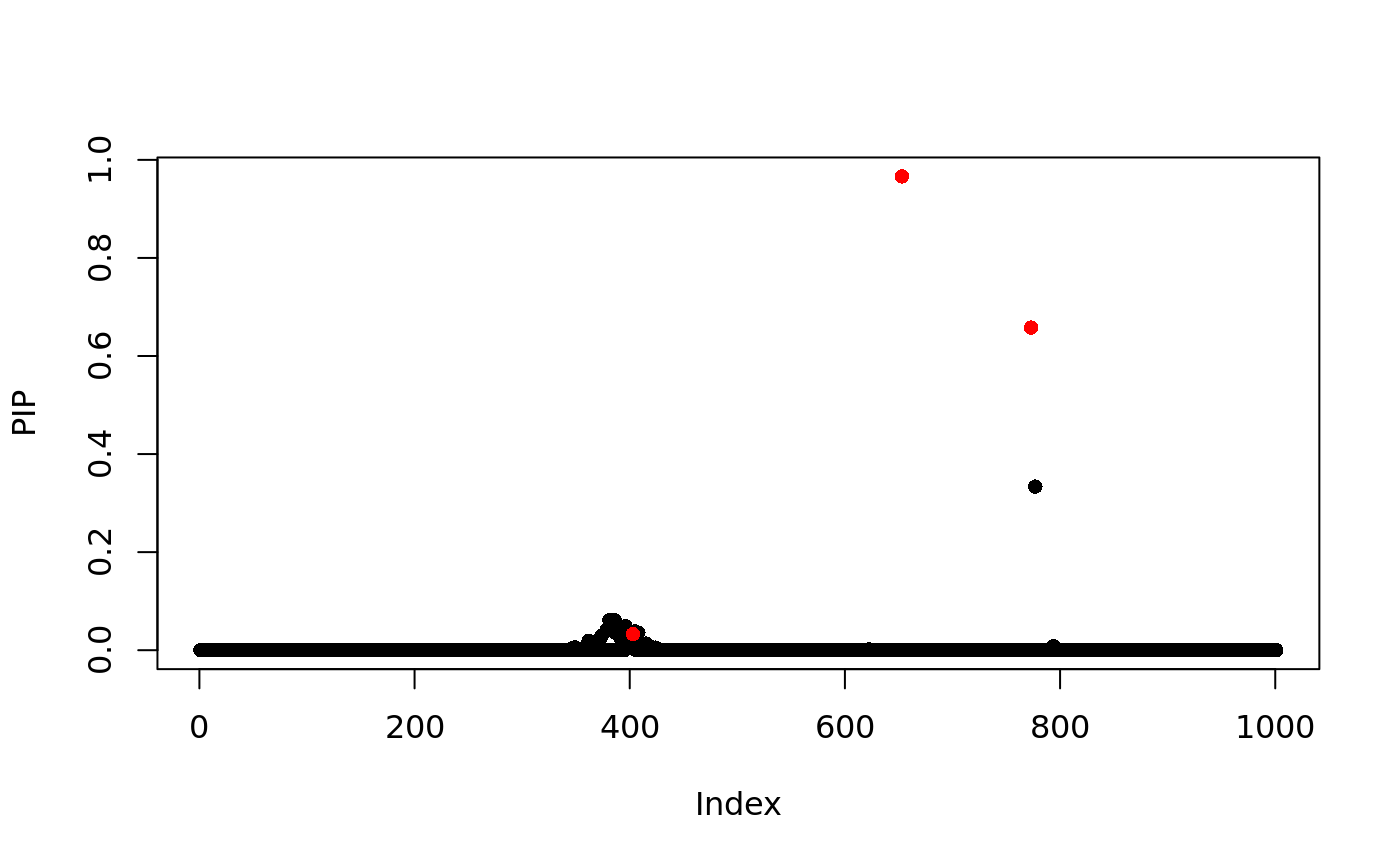
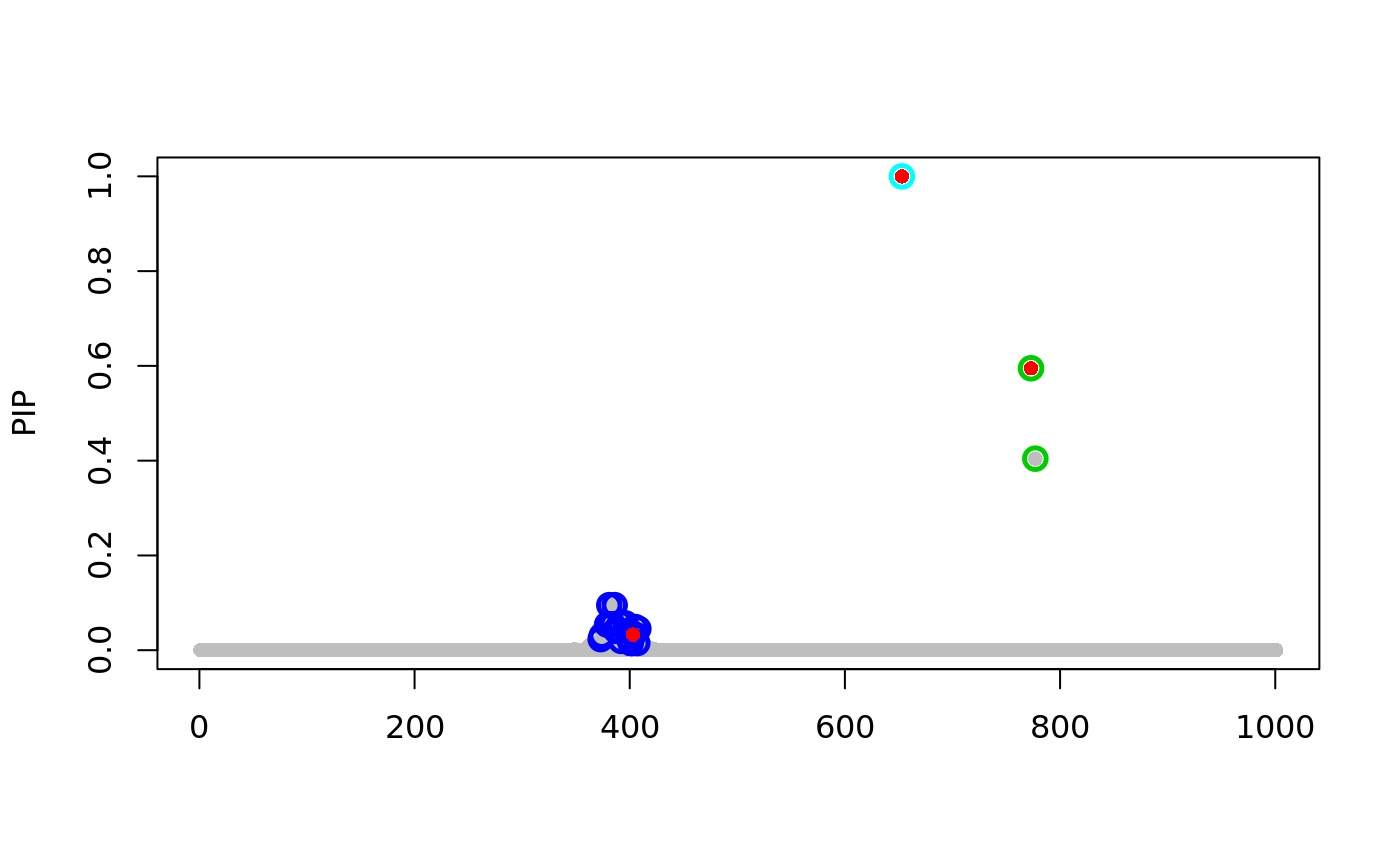
Update vignette for susie_pplot

diff --git a/docs/articles/finemapping.html b/docs/articles/finemapping.html
@@ -81,25 +81,27 @@
     
 <p>This vignettes demonstrates <code>susieR</code> in the context of genetic fine-mapping. We use simulated data of expression level of a gene (<span class="math inline">\(y\)</span>) in <span class="math inline">\(N \approx 600\)</span> individuals. We want to identify with the genotype matrix <span class="math inline">\(X_{N\times P}\)</span> (<span class="math inline">\(P=1000\)</span>) the genetic variables that causes changes in expression level.</p>
 <p>The simulated data-set is <a href="https://github.com/stephenslab/susieR/blob/master/inst/data/N3finemapping.rds">available here</a>, as part of the <code>susieR</code> package. It is simulated to have exactly 3 non-zero effects.</p>
+<div class="sourceCode" id="cb1"><pre class="sourceCode r"><code class="sourceCode r"><a class="sourceLine" id="cb1-1" data-line-number="1"><span class="kw">library</span>(susieR)</a>
+<a class="sourceLine" id="cb1-2" data-line-number="2"><span class="kw">set.seed</span>(<span class="dv">1</span>)</a></code></pre></div>
 <div id="the-data-set" class="section level2">
 <h2 class="hasAnchor">
 <a href="#the-data-set" class="anchor"></a>The data-set</h2>
-<div class="sourceCode" id="cb1"><pre class="sourceCode r"><code class="sourceCode r"><a class="sourceLine" id="cb1-1" data-line-number="1">dat =<span class="st"> </span><span class="kw">readRDS</span>(<span class="kw">system.file</span>(<span class="st">"data"</span>, <span class="st">"N3finemapping.rds"</span>, <span class="dt">package =</span> <span class="st">"susieR"</span>))</a>
-<a class="sourceLine" id="cb1-2" data-line-number="2"><span class="kw">names</span>(dat)</a></code></pre></div>
+<div class="sourceCode" id="cb2"><pre class="sourceCode r"><code class="sourceCode r"><a class="sourceLine" id="cb2-1" data-line-number="1">dat =<span class="st"> </span><span class="kw">readRDS</span>(<span class="kw">system.file</span>(<span class="st">"data"</span>, <span class="st">"N3finemapping.rds"</span>, <span class="dt">package =</span> <span class="st">"susieR"</span>))</a>
+<a class="sourceLine" id="cb2-2" data-line-number="2"><span class="kw">names</span>(dat)</a></code></pre></div>
 <pre><code>## [1] "data"     "sumstats"</code></pre>
 <p><code>data</code> contains regression data-set <span class="math inline">\(X\)</span> and <span class="math inline">\(y\)</span>, along with some other relevant properties in the context of genetic studies. It also contains the “true” regression coefficent the data is simulated from.</p>
-<div class="sourceCode" id="cb3"><pre class="sourceCode r"><code class="sourceCode r"><a class="sourceLine" id="cb3-1" data-line-number="1"><span class="kw">names</span>(dat<span class="op">$</span>data)</a></code></pre></div>
+<div class="sourceCode" id="cb4"><pre class="sourceCode r"><code class="sourceCode r"><a class="sourceLine" id="cb4-1" data-line-number="1"><span class="kw">names</span>(dat<span class="op">$</span>data)</a></code></pre></div>
 <pre><code>## [1] "X"                 "chrom"             "pos"              
 ## [4] "true_coef"         "residual_variance" "Y"                
 ## [7] "allele_freq"       "V"</code></pre>
 <p>Notice that we’ve simulated 2 sets of <span class="math inline">\(Y\)</span> as 2 simulation replicates. Here we’ll focus on the first data-set.</p>
-<div class="sourceCode" id="cb5"><pre class="sourceCode r"><code class="sourceCode r"><a class="sourceLine" id="cb5-1" data-line-number="1"><span class="kw">dim</span>(dat<span class="op">$</span>data<span class="op">$</span>Y)</a></code></pre></div>
+<div class="sourceCode" id="cb6"><pre class="sourceCode r"><code class="sourceCode r"><a class="sourceLine" id="cb6-1" data-line-number="1"><span class="kw">dim</span>(dat<span class="op">$</span>data<span class="op">$</span>Y)</a></code></pre></div>
 <pre><code>## [1] 574   2</code></pre>
 <p>Here are the 3 “true” signals in the first data-set:</p>
-<div class="sourceCode" id="cb7"><pre class="sourceCode r"><code class="sourceCode r"><a class="sourceLine" id="cb7-1" data-line-number="1"><span class="kw">plot</span>(dat<span class="op">$</span>data<span class="op">$</span>true_coef[,<span class="dv">1</span>], <span class="dt">pch=</span><span class="dv">16</span>, <span class="dt">ylab=</span><span class="st">'effect size'</span>)</a></code></pre></div>
-<p><img src="finemapping_files/figure-html/unnamed-chunk-4-1.png" width="700"></p>
-<div class="sourceCode" id="cb8"><pre class="sourceCode r"><code class="sourceCode r"><a class="sourceLine" id="cb8-1" data-line-number="1">signal_index =<span class="st"> </span><span class="kw">which</span>(dat<span class="op">$</span>data<span class="op">$</span>true_coef[,<span class="dv">1</span>] <span class="op">!=</span><span class="st"> </span><span class="dv">0</span>)</a>
-<a class="sourceLine" id="cb8-2" data-line-number="2"><span class="kw">print</span>(signal_index)</a></code></pre></div>
+<div class="sourceCode" id="cb8"><pre class="sourceCode r"><code class="sourceCode r"><a class="sourceLine" id="cb8-1" data-line-number="1">b =<span class="st"> </span>dat<span class="op">$</span>data<span class="op">$</span>true_coef[,<span class="dv">1</span>]</a>
+<a class="sourceLine" id="cb8-2" data-line-number="2"><span class="kw">plot</span>(b, <span class="dt">pch=</span><span class="dv">16</span>, <span class="dt">ylab=</span><span class="st">'effect size'</span>)</a></code></pre></div>
+<p><img src="finemapping_files/figure-html/unnamed-chunk-5-1.png" width="700"></p>
+<div class="sourceCode" id="cb9"><pre class="sourceCode r"><code class="sourceCode r"><a class="sourceLine" id="cb9-1" data-line-number="1"><span class="kw">which</span>(b <span class="op">!=</span><span class="st"> </span><span class="dv">0</span>)</a></code></pre></div>
 <pre><code>## [1] 403 653 773</code></pre>
 <p>So the underlying causal variables are 403, 653 and 773.</p>
 </div>
@@ -107,11 +109,10 @@
 <h2 class="hasAnchor">
 <a href="#simple-regression-summary-statistics" class="anchor"></a>Simple regression summary statistics</h2>
 <p>The data-set additionally provides summary statistics for fitting univariate simple regression variable by variable. The results are <span class="math inline">\(\hat{\beta}\)</span> and <span class="math inline">\(SE(\hat{\beta})\)</span> from which z-scores can be derived. Again we focus only on results from the first data-set:</p>
-<div class="sourceCode" id="cb10"><pre class="sourceCode r"><code class="sourceCode r"><a class="sourceLine" id="cb10-1" data-line-number="1">z_scores =<span class="st"> </span>dat<span class="op">$</span>sumstats[<span class="dv">1</span>,,] <span class="op">/</span><span class="st"> </span>dat<span class="op">$</span>sumstats[<span class="dv">2</span>,,]</a>
-<a class="sourceLine" id="cb10-2" data-line-number="2">z_scores =<span class="st"> </span>z_scores[,<span class="dv">1</span>]</a>
-<a class="sourceLine" id="cb10-3" data-line-number="3"><span class="kw">plot</span>(z_scores, <span class="dt">pch=</span><span class="dv">16</span>)</a>
-<a class="sourceLine" id="cb10-4" data-line-number="4"><span class="kw">points</span>(signal_index, z_scores[signal_index], <span class="dt">col =</span> <span class="st">"red"</span>, <span class="dt">pch =</span> <span class="dv">16</span>)</a></code></pre></div>
-<p><img src="finemapping_files/figure-html/unnamed-chunk-6-1.png" width="700"></p>
+<div class="sourceCode" id="cb11"><pre class="sourceCode r"><code class="sourceCode r"><a class="sourceLine" id="cb11-1" data-line-number="1">z_scores =<span class="st"> </span>dat<span class="op">$</span>sumstats[<span class="dv">1</span>,,] <span class="op">/</span><span class="st"> </span>dat<span class="op">$</span>sumstats[<span class="dv">2</span>,,]</a>
+<a class="sourceLine" id="cb11-2" data-line-number="2">z_scores =<span class="st"> </span>z_scores[,<span class="dv">1</span>]</a>
+<a class="sourceLine" id="cb11-3" data-line-number="3"><span class="kw"><a href="../reference/susie_pplot.html">susie_pplot</a></span>(z_scores, <span class="dt">dtype=</span><span class="st">'z'</span>, <span class="dt">b=</span>b)</a></code></pre></div>
+<p><img src="finemapping_files/figure-html/unnamed-chunk-7-1.png" width="700"></p>
 </div>
 <div id="fine-mapping-with-susier" class="section level2">
 <h2 class="hasAnchor">
@@ -119,65 +120,65 @@
 </h2>
 <p>For starters, we assume there are at most 5 causal variables, i.e., set <code>L=5</code>, although SuSiE is robust to the choice of <code>L</code>.</p>
 <p>We set SuSiE prior variance to 0.1, and update residual variance in the variational algorithm that fits SuSiE model. The <code>susieR</code> function call is:</p>
-<div class="sourceCode" id="cb11"><pre class="sourceCode r"><code class="sourceCode r"><a class="sourceLine" id="cb11-1" data-line-number="1">fitted =<span class="st"> </span>susieR<span class="op">::</span><span class="kw"><a href="http://www.rdocumentation.org/packages/susieR/topics/susie">susie</a></span>(dat<span class="op">$</span>data<span class="op">$</span>X, dat<span class="op">$</span>data<span class="op">$</span>Y[,<span class="dv">1</span>],</a>
-<a class="sourceLine" id="cb11-2" data-line-number="2">                       <span class="dt">L=</span><span class="dv">5</span>,</a>
-<a class="sourceLine" id="cb11-3" data-line-number="3">                       <span class="dt">estimate_residual_variance =</span> <span class="ot">TRUE</span>, </a>
-<a class="sourceLine" id="cb11-4" data-line-number="4">                       <span class="dt">prior_variance =</span> <span class="fl">0.1</span>, </a>
-<a class="sourceLine" id="cb11-5" data-line-number="5">                       <span class="dt">intercept=</span><span class="ot">FALSE</span>,</a>
-<a class="sourceLine" id="cb11-6" data-line-number="6">                       <span class="dt">tol=</span><span class="fl">1e-3</span>)</a></code></pre></div>
+<div class="sourceCode" id="cb12"><pre class="sourceCode r"><code class="sourceCode r"><a class="sourceLine" id="cb12-1" data-line-number="1">fitted =<span class="st"> </span><span class="kw"><a href="../reference/susie.html">susie</a></span>(dat<span class="op">$</span>data<span class="op">$</span>X, dat<span class="op">$</span>data<span class="op">$</span>Y[,<span class="dv">1</span>],</a>
+<a class="sourceLine" id="cb12-2" data-line-number="2">               <span class="dt">L=</span><span class="dv">5</span>,</a>
+<a class="sourceLine" id="cb12-3" data-line-number="3">               <span class="dt">estimate_residual_variance =</span> <span class="ot">TRUE</span>, </a>
+<a class="sourceLine" id="cb12-4" data-line-number="4">               <span class="dt">prior_variance =</span> <span class="fl">0.1</span>, </a>
+<a class="sourceLine" id="cb12-5" data-line-number="5">               <span class="dt">intercept=</span><span class="ot">FALSE</span>,</a>
+<a class="sourceLine" id="cb12-6" data-line-number="6">               <span class="dt">tol=</span><span class="fl">1e-3</span>)</a></code></pre></div>
 <div id="confidence-sets" class="section level3">
 <h3 class="hasAnchor">
 <a href="#confidence-sets" class="anchor"></a>Confidence sets</h3>
 <p>We obtain 95% confidence set by:</p>
-<div class="sourceCode" id="cb12"><pre class="sourceCode r"><code class="sourceCode r"><a class="sourceLine" id="cb12-1" data-line-number="1">sets =<span class="st"> </span>susieR<span class="op">::</span><span class="kw"><a href="http://www.rdocumentation.org/packages/susieR/topics/susie_get_CS">susie_get_CS</a></span>(fitted,</a>
-<a class="sourceLine" id="cb12-2" data-line-number="2">                            <span class="dt">coverage =</span> <span class="fl">0.95</span>,</a>
-<a class="sourceLine" id="cb12-3" data-line-number="3">                            <span class="dt">X=</span> dat<span class="op">$</span>data<span class="op">$</span>X, </a>
-<a class="sourceLine" id="cb12-4" data-line-number="4">                            <span class="dt">min_abs_corr =</span> <span class="fl">0.1</span>)</a></code></pre></div>
+<div class="sourceCode" id="cb13"><pre class="sourceCode r"><code class="sourceCode r"><a class="sourceLine" id="cb13-1" data-line-number="1">sets =<span class="st"> </span><span class="kw"><a href="../reference/susie_get_CS.html">susie_get_CS</a></span>(fitted,</a>
+<a class="sourceLine" id="cb13-2" data-line-number="2">                    <span class="dt">coverage =</span> <span class="fl">0.95</span>,</a>
+<a class="sourceLine" id="cb13-3" data-line-number="3">                    <span class="dt">X=</span> dat<span class="op">$</span>data<span class="op">$</span>X, </a>
+<a class="sourceLine" id="cb13-4" data-line-number="4">                    <span class="dt">min_abs_corr =</span> <span class="fl">0.1</span>)</a></code></pre></div>
 <p>Notice that by passing to <code>susie_get_CS</code> function the data matrix <code>X</code>, we further filter the sets identified by removing those having absolute correlation between any pairs of variables in the set smaller than specified value, which is 0.1 in the function call above. We call this a “purity” filter.</p>
-<div class="sourceCode" id="cb13"><pre class="sourceCode r"><code class="sourceCode r"><a class="sourceLine" id="cb13-1" data-line-number="1"><span class="kw">print</span>(sets)</a></code></pre></div>
+<div class="sourceCode" id="cb14"><pre class="sourceCode r"><code class="sourceCode r"><a class="sourceLine" id="cb14-1" data-line-number="1"><span class="kw">print</span>(sets)</a></code></pre></div>
 <pre><code>## $cs
-## $cs[[1]]
+## $cs$L1
 ## [1] 773 777
 ## 
-## $cs[[2]]
+## $cs$L2
 ##  [1] 362 372 373 374 379 381 383 384 386 387 388 389 391 392 396 397 398
 ## [18] 399 400 401 403 404 405 407 408 415
 ## 
-## $cs[[3]]
+## $cs$L3
 ## [1] 653
 ## 
 ## 
 ## $purity
-##   min.abs.corr mean.abs.corr median.abs.corr
-## 1    0.9815726     0.9907863       0.9907863
-## 2    0.8686309     0.9673674       0.9756251
-## 3    1.0000000     1.0000000       1.0000000
+##    min.abs.corr mean.abs.corr median.abs.corr
+## L1    0.9815726     0.9907863       0.9907863
+## L2    0.8686309     0.9673674       0.9756251
+## L3    1.0000000     1.0000000       1.0000000
 ## 
 ## $cs_index
 ## [1] 1 2 3</code></pre>
 <p>The 3 causal signals have been captured by the 3 CS reported here. The 3rd CS contains many variables, including the true causal variable <code>403</code>. The minimum absolute correlation is 0.86.</p>
 <p>If we use the default 90% coverage for confidence sets, we still capture the 3 signals, but “purity” of the 3rd CS is now 0.91 and size of the CS is also a bit smaller.</p>
-<div class="sourceCode" id="cb15"><pre class="sourceCode r"><code class="sourceCode r"><a class="sourceLine" id="cb15-1" data-line-number="1">sets =<span class="st"> </span>susieR<span class="op">::</span><span class="kw"><a href="http://www.rdocumentation.org/packages/susieR/topics/susie_get_CS">susie_get_CS</a></span>(fitted,</a>
-<a class="sourceLine" id="cb15-2" data-line-number="2">                            <span class="dt">X=</span> dat<span class="op">$</span>data<span class="op">$</span>X, </a>
-<a class="sourceLine" id="cb15-3" data-line-number="3">                            <span class="dt">min_abs_corr =</span> <span class="fl">0.1</span>)</a></code></pre></div>
-<div class="sourceCode" id="cb16"><pre class="sourceCode r"><code class="sourceCode r"><a class="sourceLine" id="cb16-1" data-line-number="1"><span class="kw">print</span>(sets)</a></code></pre></div>
+<div class="sourceCode" id="cb16"><pre class="sourceCode r"><code class="sourceCode r"><a class="sourceLine" id="cb16-1" data-line-number="1">sets =<span class="st"> </span><span class="kw"><a href="../reference/susie_get_CS.html">susie_get_CS</a></span>(fitted,</a>
+<a class="sourceLine" id="cb16-2" data-line-number="2">                    <span class="dt">X=</span> dat<span class="op">$</span>data<span class="op">$</span>X, </a>
+<a class="sourceLine" id="cb16-3" data-line-number="3">                    <span class="dt">min_abs_corr =</span> <span class="fl">0.1</span>)</a></code></pre></div>
+<div class="sourceCode" id="cb17"><pre class="sourceCode r"><code class="sourceCode r"><a class="sourceLine" id="cb17-1" data-line-number="1"><span class="kw">print</span>(sets)</a></code></pre></div>
 <pre><code>## $cs
-## $cs[[1]]
+## $cs$L1
 ## [1] 773 777
 ## 
-## $cs[[2]]
+## $cs$L2
 ##  [1] 373 374 379 381 383 384 386 387 388 389 391 392 396 399 400 401 403
 ## [18] 404 405 407 408
 ## 
-## $cs[[3]]
+## $cs$L3
 ## [1] 653
 ## 
 ## 
 ## $purity
-##   min.abs.corr mean.abs.corr median.abs.corr
-## 1    0.9815726     0.9907863       0.9907863
-## 2    0.9119572     0.9744588       0.9779763
-## 3    1.0000000     1.0000000       1.0000000
+##    min.abs.corr mean.abs.corr median.abs.corr
+## L1    0.9815726     0.9907863       0.9907863
+## L2    0.9119572     0.9744588       0.9779763
+## L3    1.0000000     1.0000000       1.0000000
 ## 
 ## $cs_index
 ## [1] 1 2 3</code></pre>
@@ -186,14 +187,13 @@
 <h3 class="hasAnchor">
 <a href="#posterior-inclusion-probability" class="anchor"></a>Posterior inclusion probability</h3>
 <p>Previously we’ve determined that summing over 3 single effect regression models is approperate for our application. Here we summarize the variable selection results by computing posterior inclusion probability for SuSiE model:</p>
-<div class="sourceCode" id="cb18"><pre class="sourceCode r"><code class="sourceCode r"><a class="sourceLine" id="cb18-1" data-line-number="1">pip =<span class="st"> </span>susieR<span class="op">::</span><span class="kw"><a href="http://www.rdocumentation.org/packages/susieR/topics/susie_get_PIP">susie_get_PIP</a></span>(fitted, sets<span class="op">$</span>cs_index)</a></code></pre></div>
-<div class="sourceCode" id="cb19"><pre class="sourceCode r"><code class="sourceCode r"><a class="sourceLine" id="cb19-1" data-line-number="1"><span class="kw">plot</span>(pip, <span class="dt">pch=</span><span class="dv">16</span>, <span class="dt">ylab=</span><span class="st">'PIP'</span>)</a>
-<a class="sourceLine" id="cb19-2" data-line-number="2"><span class="kw">points</span>(signal_index, pip[signal_index], <span class="dt">col =</span> <span class="st">"red"</span>, <span class="dt">pch =</span> <span class="dv">16</span>)</a></code></pre></div>
-<p><img src="finemapping_files/figure-html/unnamed-chunk-13-1.png" width="700"></p>
-<p>The true causal variables are colored red. Of interest is the cluster around position 400. The true signal is 403 but apparently it does not have the highest PIP. To compare ranking of PIP and original z-score in that CS:</p>
-<div class="sourceCode" id="cb20"><pre class="sourceCode r"><code class="sourceCode r"><a class="sourceLine" id="cb20-1" data-line-number="1">z3 =<span class="st"> </span><span class="kw">cbind</span>(sets<span class="op">$</span>cs[[<span class="dv">3</span>]], z_scores[sets<span class="op">$</span>cs[[<span class="dv">3</span>]]], pip[sets<span class="op">$</span>cs[[<span class="dv">3</span>]]])</a>
-<a class="sourceLine" id="cb20-2" data-line-number="2"><span class="kw">colnames</span>(z3) =<span class="st"> </span><span class="kw">c</span>(<span class="st">'position'</span>, <span class="st">'z-score'</span>, <span class="st">'PIP'</span>)</a>
-<a class="sourceLine" id="cb20-3" data-line-number="3">z3[<span class="kw">order</span>(z3[,<span class="dv">2</span>], <span class="dt">decreasing =</span> <span class="ot">TRUE</span>),]</a></code></pre></div>
+<div class="sourceCode" id="cb19"><pre class="sourceCode r"><code class="sourceCode r"><a class="sourceLine" id="cb19-1" data-line-number="1">pip =<span class="st"> </span><span class="kw"><a href="../reference/susie_get_PIP.html">susie_get_PIP</a></span>(fitted, sets<span class="op">$</span>cs_index)</a></code></pre></div>
+<div class="sourceCode" id="cb20"><pre class="sourceCode r"><code class="sourceCode r"><a class="sourceLine" id="cb20-1" data-line-number="1"><span class="kw"><a href="../reference/susie_pplot.html">susie_pplot</a></span>(pip, <span class="dt">fitted=</span>fitted, <span class="dt">dtype=</span><span class="st">'PIP'</span>, <span class="dt">b=</span>b)</a></code></pre></div>
+<p><img src="finemapping_files/figure-html/unnamed-chunk-14-1.png" width="700"></p>
+<p>The true causal variables are colored red. The CS identified are circled in different colors. Of interest is the cluster around position 400. The true signal is 403 but apparently it does not have the highest PIP. To compare ranking of PIP and original z-score in that CS:</p>
+<div class="sourceCode" id="cb21"><pre class="sourceCode r"><code class="sourceCode r"><a class="sourceLine" id="cb21-1" data-line-number="1">z3 =<span class="st"> </span><span class="kw">cbind</span>(sets<span class="op">$</span>cs[[<span class="dv">3</span>]], z_scores[sets<span class="op">$</span>cs[[<span class="dv">3</span>]]], pip[sets<span class="op">$</span>cs[[<span class="dv">3</span>]]])</a>
+<a class="sourceLine" id="cb21-2" data-line-number="2"><span class="kw">colnames</span>(z3) =<span class="st"> </span><span class="kw">c</span>(<span class="st">'position'</span>, <span class="st">'z-score'</span>, <span class="st">'PIP'</span>)</a>
+<a class="sourceLine" id="cb21-3" data-line-number="3">z3[<span class="kw">order</span>(z3[,<span class="dv">2</span>], <span class="dt">decreasing =</span> <span class="ot">TRUE</span>),]</a></code></pre></div>
 <pre><code>##    position     z-score         PIP 
 ## 653.0000000  -6.9366153   0.9998735</code></pre>
 </div>
@@ -201,19 +201,18 @@
 <h3 class="hasAnchor">
 <a href="#choice-of-priors" class="anchor"></a>Choice of priors</h3>
 <p>We found that SuSiE is generally robust to choice of priors. Here we set prior variance to 0.2, and compare with previous results:</p>
-<div class="sourceCode" id="cb22"><pre class="sourceCode r"><code class="sourceCode r"><a class="sourceLine" id="cb22-1" data-line-number="1">fitted =<span class="st"> </span>susieR<span class="op">::</span><span class="kw"><a href="http://www.rdocumentation.org/packages/susieR/topics/susie">susie</a></span>(dat<span class="op">$</span>data<span class="op">$</span>X, dat<span class="op">$</span>data<span class="op">$</span>Y[,<span class="dv">1</span>],</a>
-<a class="sourceLine" id="cb22-2" data-line-number="2">                       <span class="dt">L=</span><span class="dv">5</span>,</a>
-<a class="sourceLine" id="cb22-3" data-line-number="3">                       <span class="dt">estimate_residual_variance =</span> <span class="ot">TRUE</span>, </a>
-<a class="sourceLine" id="cb22-4" data-line-number="4">                       <span class="dt">prior_variance =</span> <span class="fl">0.2</span>, </a>
-<a class="sourceLine" id="cb22-5" data-line-number="5">                       <span class="dt">intercept=</span><span class="ot">FALSE</span>,</a>
-<a class="sourceLine" id="cb22-6" data-line-number="6">                       <span class="dt">tol=</span><span class="fl">1e-3</span>)</a>
-<a class="sourceLine" id="cb22-7" data-line-number="7">sets =<span class="st"> </span>susieR<span class="op">::</span><span class="kw"><a href="http://www.rdocumentation.org/packages/susieR/topics/susie_get_CS">susie_get_CS</a></span>(fitted,</a>
-<a class="sourceLine" id="cb22-8" data-line-number="8">                            <span class="dt">X=</span> dat<span class="op">$</span>data<span class="op">$</span>X, </a>
-<a class="sourceLine" id="cb22-9" data-line-number="9">                            <span class="dt">min_abs_corr =</span> <span class="fl">0.1</span>)</a>
-<a class="sourceLine" id="cb22-10" data-line-number="10">pip =<span class="st"> </span>susieR<span class="op">::</span><span class="kw"><a href="http://www.rdocumentation.org/packages/susieR/topics/susie_get_PIP">susie_get_PIP</a></span>(fitted, sets<span class="op">$</span>cs_index)</a>
-<a class="sourceLine" id="cb22-11" data-line-number="11"><span class="kw">plot</span>(pip, <span class="dt">pch=</span><span class="dv">16</span>, <span class="dt">ylab=</span><span class="st">'PIP'</span>)</a>
-<a class="sourceLine" id="cb22-12" data-line-number="12"><span class="kw">points</span>(signal_index, pip[signal_index], <span class="dt">col =</span> <span class="st">"red"</span>, <span class="dt">pch =</span> <span class="dv">16</span>)</a></code></pre></div>
-<p><img src="finemapping_files/figure-html/unnamed-chunk-15-1.png" width="700"></p>
+<div class="sourceCode" id="cb23"><pre class="sourceCode r"><code class="sourceCode r"><a class="sourceLine" id="cb23-1" data-line-number="1">fitted =<span class="st"> </span><span class="kw"><a href="../reference/susie.html">susie</a></span>(dat<span class="op">$</span>data<span class="op">$</span>X, dat<span class="op">$</span>data<span class="op">$</span>Y[,<span class="dv">1</span>],</a>
+<a class="sourceLine" id="cb23-2" data-line-number="2">               <span class="dt">L=</span><span class="dv">5</span>,</a>
+<a class="sourceLine" id="cb23-3" data-line-number="3">               <span class="dt">estimate_residual_variance =</span> <span class="ot">TRUE</span>, </a>
+<a class="sourceLine" id="cb23-4" data-line-number="4">               <span class="dt">prior_variance =</span> <span class="fl">0.2</span>, </a>
+<a class="sourceLine" id="cb23-5" data-line-number="5">               <span class="dt">intercept=</span><span class="ot">FALSE</span>,</a>
+<a class="sourceLine" id="cb23-6" data-line-number="6">               <span class="dt">tol=</span><span class="fl">1e-3</span>)</a>
+<a class="sourceLine" id="cb23-7" data-line-number="7">sets =<span class="st"> </span><span class="kw"><a href="../reference/susie_get_CS.html">susie_get_CS</a></span>(fitted,</a>
+<a class="sourceLine" id="cb23-8" data-line-number="8">                    <span class="dt">X=</span> dat<span class="op">$</span>data<span class="op">$</span>X, </a>
+<a class="sourceLine" id="cb23-9" data-line-number="9">                    <span class="dt">min_abs_corr =</span> <span class="fl">0.1</span>)</a>
+<a class="sourceLine" id="cb23-10" data-line-number="10">pip =<span class="st"> </span><span class="kw"><a href="../reference/susie_get_PIP.html">susie_get_PIP</a></span>(fitted, sets<span class="op">$</span>cs_index)</a>
+<a class="sourceLine" id="cb23-11" data-line-number="11"><span class="kw"><a href="../reference/susie_pplot.html">susie_pplot</a></span>(pip, <span class="dt">fitted=</span>fitted, <span class="dt">dtype=</span><span class="st">'PIP'</span>, <span class="dt">b=</span>b)</a></code></pre></div>
+<p><img src="finemapping_files/figure-html/unnamed-chunk-16-1.png" width="700"></p>
 <p>which largely remains unchanged. It is also possible to use <code>estimate_prior_variance = TRUE</code> to estimate prior variance estimates in variational updates. (FIXME: need to comment on whether this is recommanded.)</p>
 </div>
 </div>

diff --git a/docs/reference/susie_pplot.html b/docs/reference/susie_pplot.html
@@ -1,0 +1,170 @@
+<!-- Generated by pkgdown: do not edit by hand -->
+<!DOCTYPE html>
+<html>
+  <head>
+  <meta charset="utf-8">
+<meta http-equiv="X-UA-Compatible" content="IE=edge">
+<meta name="viewport" content="width=device-width, initial-scale=1.0">
+
+<title>Plot per variable summary in SuSiE CSs — susie_pplot • susieR</title>
+
+<!-- jquery -->
+<script src="https://code.jquery.com/jquery-3.1.0.min.js" integrity="sha384-nrOSfDHtoPMzJHjVTdCopGqIqeYETSXhZDFyniQ8ZHcVy08QesyHcnOUpMpqnmWq" crossorigin="anonymous"></script>
+<!-- Bootstrap -->
+<link href="https://maxcdn.bootstrapcdn.com/bootswatch/3.3.7/flatly/bootstrap.min.css" rel="stylesheet" crossorigin="anonymous">
+
+<script src="https://maxcdn.bootstrapcdn.com/bootstrap/3.3.7/js/bootstrap.min.js" integrity="sha384-Tc5IQib027qvyjSMfHjOMaLkfuWVxZxUPnCJA7l2mCWNIpG9mGCD8wGNIcPD7Txa" crossorigin="anonymous"></script>
+
+<!-- Font Awesome icons -->
+<link href="https://maxcdn.bootstrapcdn.com/font-awesome/4.6.3/css/font-awesome.min.css" rel="stylesheet" integrity="sha384-T8Gy5hrqNKT+hzMclPo118YTQO6cYprQmhrYwIiQ/3axmI1hQomh7Ud2hPOy8SP1" crossorigin="anonymous">
+
+<!-- clipboard.js -->
+<script src="https://cdnjs.cloudflare.com/ajax/libs/clipboard.js/1.7.1/clipboard.min.js" integrity="sha384-cV+rhyOuRHc9Ub/91rihWcGmMmCXDeksTtCihMupQHSsi8GIIRDG0ThDc3HGQFJ3" crossorigin="anonymous"></script>
+
+<!-- sticky kit -->
+<script src="https://cdnjs.cloudflare.com/ajax/libs/sticky-kit/1.1.3/sticky-kit.min.js" integrity="sha256-c4Rlo1ZozqTPE2RLuvbusY3+SU1pQaJC0TjuhygMipw=" crossorigin="anonymous"></script>
+
+<!-- pkgdown -->
+<link href="../pkgdown.css" rel="stylesheet">
+<script src="../pkgdown.js"></script>
+
+
+
+<meta property="og:title" content="Plot per variable summary in SuSiE CSs — susie_pplot" />
+<meta name="twitter:card" content="summary" />
+
+
+
+<!-- mathjax -->
+<script src='https://mathjax.rstudio.com/latest/MathJax.js?config=TeX-AMS-MML_HTMLorMML'></script>
+
+<!--[if lt IE 9]>
+<script src="https://oss.maxcdn.com/html5shiv/3.7.3/html5shiv.min.js"></script>
+<script src="https://oss.maxcdn.com/respond/1.4.2/respond.min.js"></script>
+<![endif]-->
+
+
+  </head>
+
+  <body>
+    <div class="container template-reference-topic">
+      <header>
+      <div class="navbar navbar-default navbar-fixed-top" role="navigation">
+  <div class="container">
+    <div class="navbar-header">
+      <button type="button" class="navbar-toggle collapsed" data-toggle="collapse" data-target="#navbar">
+        <span class="icon-bar"></span>
+        <span class="icon-bar"></span>
+        <span class="icon-bar"></span>
+      </button>
+      <span class="navbar-brand">
+        <a class="navbar-link" href="../index.html">susieR</a>
+        <span class="label label-default" data-toggle="tooltip" data-placement="bottom" title="Released package">0.1.13</span>
+      </span>
+    </div>
+
+    <div id="navbar" class="navbar-collapse collapse">
+      <ul class="nav navbar-nav">
+        <li>
+  <a href="../index.html">
+    <span class="fa fa-home"></span>
+     
+  </a>
+</li>
+<li>
+  <a href="../articles/index.html">Vignettes</a>
+</li>
+<li>
+  <a href="../reference/index.html">Functions</a>
+</li>
+      </ul>
+      
+      <ul class="nav navbar-nav navbar-right">
+        <li>
+  <a href="https://github.com/stephenslab/susieR">
+    <span class="fa fa-github"></span>
+     
+  </a>
+</li>
+      </ul>
+      
+    </div><!--/.nav-collapse -->
+  </div><!--/.container -->
+</div><!--/.navbar -->
+
+      
+      </header>
+
+<div class="row">
+  <div class="col-md-9 contents">
+    <div class="page-header">
+    <h1>Plot per variable summary in SuSiE CSs</h1>
+    
+    <div class="hidden name"><code>susie_pplot.Rd</code></div>
+    </div>
+
+    <div class="ref-description">
+
+    </div>
+
+    <pre class="usage"><span class='fu'>susie_pplot</span>(<span class='no'>data</span>, <span class='kw'>fitted</span> <span class='kw'>=</span> <span class='kw'>NULL</span>, <span class='kw'>dtype</span> <span class='kw'>=</span> <span class='st'>"raw_data"</span>, <span class='kw'>coverage</span> <span class='kw'>=</span> <span class='fl'>0.9</span>,
+  <span class='kw'>pos</span> <span class='kw'>=</span> <span class='kw'>NULL</span>, <span class='kw'>b</span> <span class='kw'>=</span> <span class='kw'>NULL</span>, <span class='kw'>CSmax</span> <span class='kw'>=</span> <span class='fl'>400</span>, <span class='no'>...</span>)</pre>
+    
+    <h2 class="hasAnchor" id="arguments"><a class="anchor" href="#arguments"></a>Arguments</h2>
+    <table class="ref-arguments">
+    <colgroup><col class="name" /><col class="desc" /></colgroup>
+    <tr>
+      <th>data</th>
+      <td><p>can be raw data <code>X</code> and <code>y</code> as <code>list(X=X,y=y)</code>, or be a vector of z-scores, or p-values.</p></td>
+    </tr>
+    <tr>
+      <th>fitted</th>
+      <td><p>a susie fit, the output of `susieR::susie()`, or simply the posterior
+inclusion probability matrix alpha.</p></td>
+    </tr>
+    <tr>
+      <th>dtype</th>
+      <td><p>a string indicating the input data type (choices are raw_data (for raw data input), p (for p-value input), z (for z-scores input) and PIP (for PIP input))</p></td>
+    </tr>
+    <tr>
+      <th>coverage</th>
+      <td><p>coverage of confident sets. Default to 0.9 for 90% confidence interval.</p></td>
+    </tr>
+    <tr>
+      <th>b</th>
+      <td><p>for simulated data, specify b = true effects (highlights in red).</p></td>
+    </tr>
+    <tr>
+      <th>CSmax</th>
+      <td><p>maximum size of CS to display.</p></td>
+    </tr>
+    </table>
+    
+
+  </div>
+  <div class="col-md-3 hidden-xs hidden-sm" id="sidebar">
+    <h2>Contents</h2>
+    <ul class="nav nav-pills nav-stacked">
+      <li><a href="#arguments">Arguments</a></li>
+                </ul>
+
+  </div>
+</div>
+
+      <footer>
+      <div class="copyright">
+  <p>Developed by Matthew Stephens, Yuxin Zou, Peter Carbonetto, Gao Wang.</p>
+</div>
+
+<div class="pkgdown">
+  <p>Site built with <a href="http://pkgdown.r-lib.org/">pkgdown</a>.</p>
+</div>
+
+      </footer>
+   </div>
+
+  
+
+  </body>
+</html>
+

diff --git a/docs/articles/mwe.html b/docs/articles/mwe.html
@@ -79,9 +79,6 @@
 
     
     
-<div id="a-minimal-example" class="section level1">
-<h1 class="hasAnchor">
-<a href="#a-minimal-example" class="anchor"></a>A minimal example</h1>
 <p>This fits a sparse linear regression model with up to <span class="math inline">\(L\)</span> non-zero effects. Generally there is no harm in over-stating <span class="math inline">\(L\)</span> (that is, the method is pretty robust to overfitting) except that computation will grow as <span class="math inline">\(L\)</span> grows.</p>
 <p>Here is a minimal example:</p>
 <div class="sourceCode" id="cb1"><pre class="sourceCode r"><code class="sourceCode r"><a class="sourceLine" id="cb1-1" data-line-number="1"><span class="kw">set.seed</span>(<span class="dv">1</span>)</a>
@@ -99,17 +96,9 @@
 <p><img src="mwe_files/figure-html/unnamed-chunk-1-1.png" width="700"></p>
 <div class="sourceCode" id="cb2"><pre class="sourceCode r"><code class="sourceCode r"><a class="sourceLine" id="cb2-1" data-line-number="1"><span class="kw">plot</span>(y,<span class="kw">predict</span>(res))</a></code></pre></div>
 <p><img src="mwe_files/figure-html/unnamed-chunk-1-2.png" width="700"></p>
-</div>
   </div>
 
   <div class="col-md-3 hidden-xs hidden-sm" id="sidebar">
-        <div id="tocnav">
-      <h2 class="hasAnchor">
-<a href="#tocnav" class="anchor"></a>Contents</h2>
-      <ul class="nav nav-pills nav-stacked">
-<li><a href="#a-minimal-example">A minimal example</a></li>
-      </ul>
-</div>
       </div>
 
 </div>
